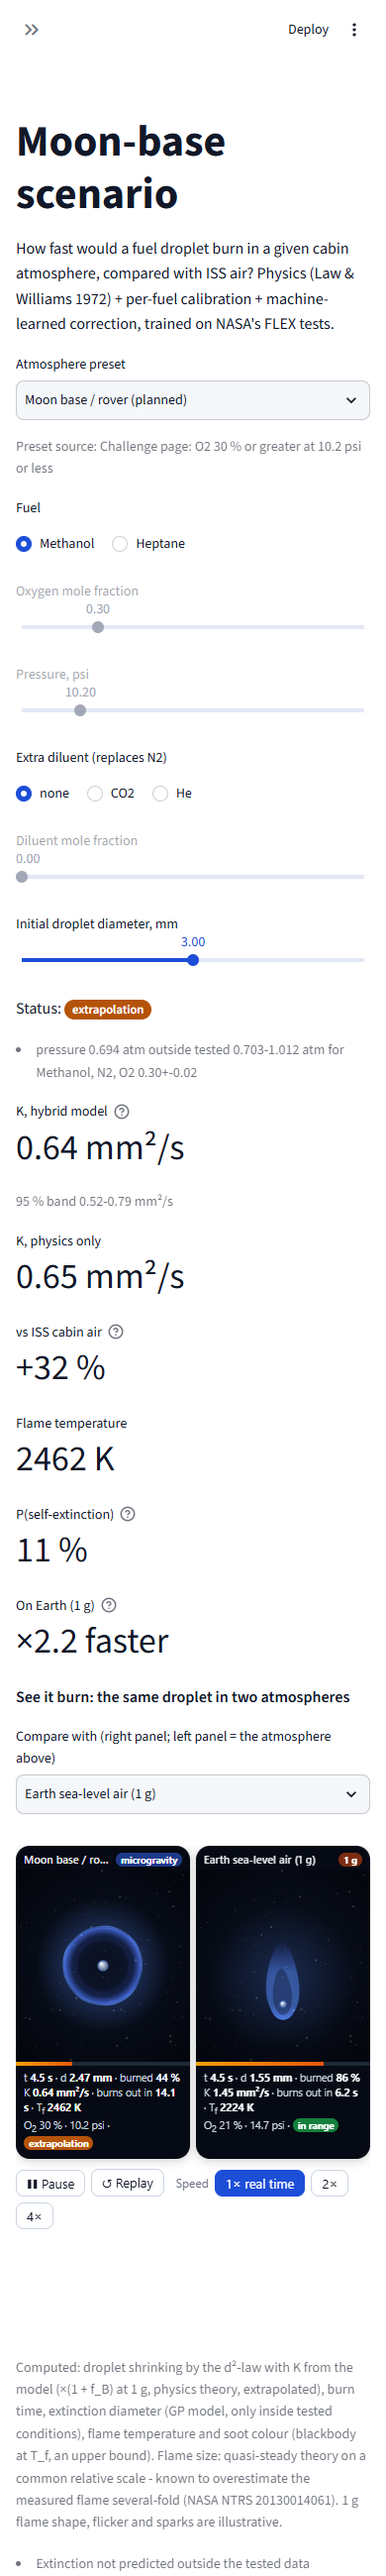
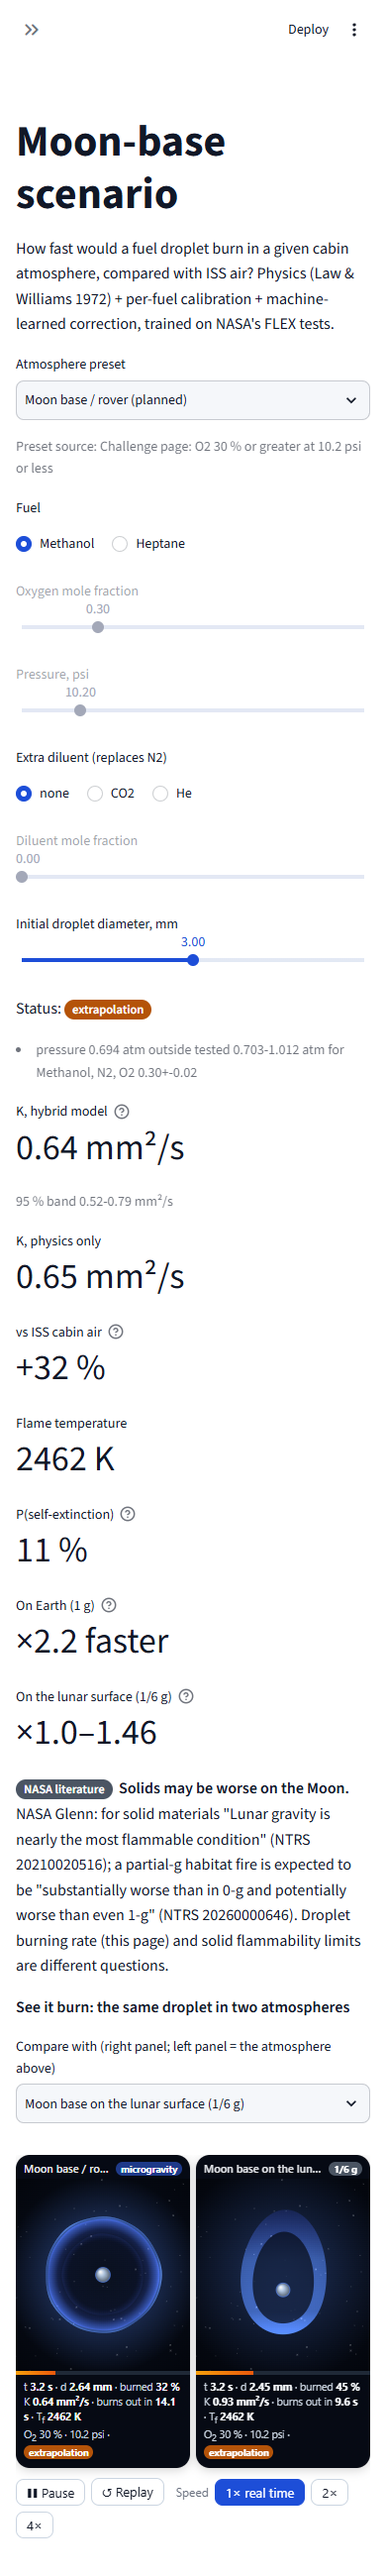
docs: refreshed UI screenshots (lunar panel, compare tab); worklog time from the clock

Changed region(s): [[0.0308, 0.6542, 0.9846, 0.9969]]

diff --git a/docs/WORKLOG.md b/docs/WORKLOG.md
@@ -118,4 +118,4 @@ Open items:
 2026-11-14 (after Ruslan's answers, before 15:23)-15:31 | post-8 item 1 | Lunar gravity: source search (fact sheet unreachable; NTRS 20250004015 for 1/6), buoyancy_factor(Gr, g), moon bound in scenario, animation at any g (1/6 g panel, shell-shaped buoyant flame), insights P5/P6, tests (115 green), PHYSICS/RESEARCH_LOG/DATA_SOURCES | src/fif/physics/droplet.py, src/fif/insights/*, app/*, tests/* | item 2 (S5 matrix)
 2026-11-14 15:31-15:36 | post-8 item 2 | S5 comparison matrix: variable classes from PSI table headers (regex rules), hardware families, Compare tab with heatmap + computed summary; computed Tad and ambient T excluded from measured outcomes; tests (120 green). Data note: ACME s-Flame 'Atmosphere' has spreadsheet autofill artefacts 'N3'..'N6' for N2 (catalog-only table, not used in models) | src/fif/insights/compare.py, app/views/investigations.py, app/common.py, tests/test_compare.py | item 3
 2026-11-14 15:36-15:39 | post-8 item 3 | Extinction label sensitivity (ADR-018 B/C): rule written in src/fif/validation/label_sensitivity.py and announced in chat before the run (15:38); result: directions robust (P falls with O2, S3/S4 hold, no rise along O2), AUC check fails for C (0.882 vs A 0.787, i.e. better); A kept, question to Ruslan | src/fif/validation/label_sensitivity.py, scripts/label_sensitivity.py, docs/verification/extinction_label_sensitivity.*, scripts/render_validation.py, docs/VALIDATION.md | item 5 deploy (needs HF token)
-2026-11-14 15:39-15:42 | post-8 item 5 (prep) | HF Spaces deploy prepared: Dockerfile (python 3.12-slim, Streamlit on 8501), scripts/deploy_hf.py (token from env/file outside the repo, staged copy of the app files + Space README header, upload_folder); all 8 pages run from the staged copy; replaced deprecated use_container_width by width='stretch' | Dockerfile, scripts/deploy_hf.py, requirements-dev.txt, app/views/* | waiting for Ruslan's HF account + write token
+2026-11-14 15:39-15:41 | post-8 item 5 (prep) | HF Spaces deploy prepared: Dockerfile (python 3.12-slim, Streamlit on 8501), scripts/deploy_hf.py (token from env/file outside the repo, staged copy of the app files + Space README header, upload_folder); all 8 pages run from the staged copy; replaced deprecated use_container_width by width='stretch' | Dockerfile, scripts/deploy_hf.py, requirements-dev.txt, app/views/* | waiting for Ruslan's HF account + write token
